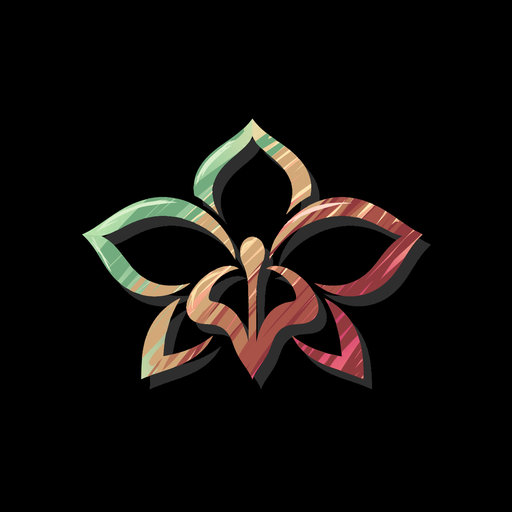
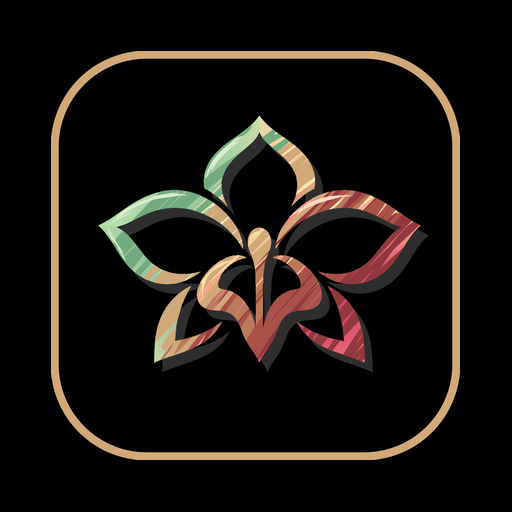
Icono de la app con orchidia.png; barra superior con la orquídea sin fondo

Changed region(s): [[0.1562, 0.2188, 0.8438, 0.7812], [0.0938, 0.0938, 0.9062, 0.9062]]

diff --git a/estilos.css b/estilos.css
@@ -23,7 +23,7 @@ h1, h2 { font-family: Georgia, "Times New Roman", serif; font-weight: 500; lette
 .barra { position: sticky; top: 0; z-index: 15; display: flex; align-items: center; justify-content: space-between; gap: 12px;
   min-height: 68px; padding: env(safe-area-inset-top) max(16px, calc((100% - 960px) / 2)) 0; border-bottom: 1px solid #e0e5d9cc; background: #f8f7f0ef; backdrop-filter: blur(14px); }
 .marca { display: inline-flex; align-items: center; gap: 9px; margin: 0; font-family: inherit; font-size: 20px; font-weight: 700; letter-spacing: -.4px; }
-.marca-icono { width: 35px; height: 35px; border-radius: 10px; box-shadow: var(--relieve-chico); }
+.marca-icono { width: 40px; height: 36px; object-fit: contain; }
 .marca b { color: var(--green); }
 .conexion { margin: 0; padding: 5px 11px; border-radius: 999px; background: var(--surface); box-shadow: var(--hundido); color: var(--muted); font-size: 12px; font-weight: 700; }
 .conexion.sin { color: var(--rojo); }

diff --git a/sw.js b/sw.js
@@ -1,7 +1,7 @@
 // Guarda la app en el dispositivo para abrirla sin conexión. Al cambiar cualquier archivo, sube la versión.
-const VERSION = 'palfor-3';
+const VERSION = 'palfor-4';
 const ARCHIVOS = ['./', 'index.html', 'estilos.css', 'main.js', 'db.js', 'inventario.js', 'clima.js', 'calculadora.js', 'calc-logica.js',
-  'manifest.webmanifest', 'iconos/icono-192.png', 'iconos/icono-512.png', 'iconos/icono-maskable-512.png'];
+  'manifest.webmanifest', 'iconos/icono-192.png', 'iconos/icono-512.png', 'iconos/icono-maskable-512.png', 'iconos/logo-orquidea.png'];
 
 self.addEventListener('install', (e) => {
   e.waitUntil(caches.open(VERSION).then((c) => c.addAll(ARCHIVOS)).then(() => self.skipWaiting()));

diff --git a/index.html b/index.html
@@ -13,7 +13,7 @@
 </head>
 <body>
   <header class="barra">
-    <h1 class="marca"><img class="marca-icono" src="iconos/icono-192.png" alt="" width="35" height="35"><span>Vivero <b>Palfor</b></span></h1>
+    <h1 class="marca"><img class="marca-icono" src="iconos/logo-orquidea.png" alt="" width="40" height="36"><span>Vivero <b>Palfor</b></span></h1>
     <p id="conexion" class="conexion" role="status"></p>
   </header>
 
